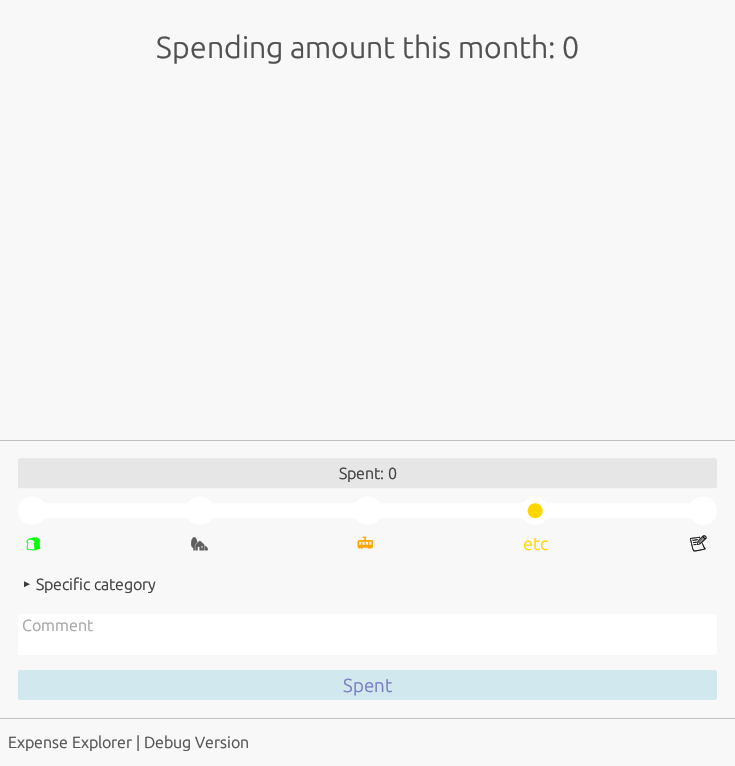
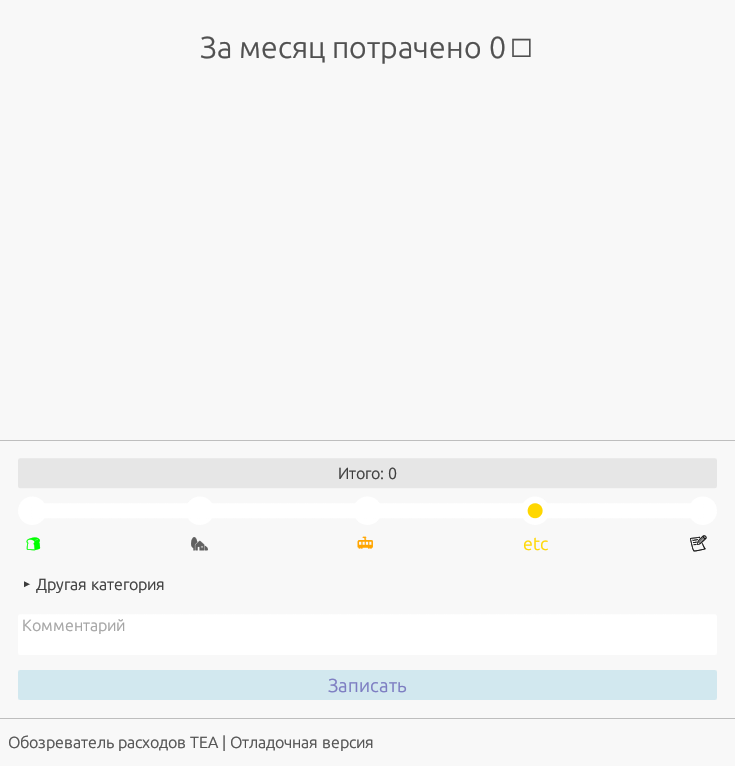
Localization start

diff --git a/src/graphics.rs b/src/graphics.rs
@@ -12,9 +12,9 @@ use crate::widgets::*;
 
 
 const CATEGORIES: [(&'static str, Color32, Option<&'static str>); 5] = [
-    ("🍞", Color32::GREEN,     Some("food")),
-    ("🏡", Color32::DARK_GRAY, Some("supplies")),
-    ("🚋", Color32::ORANGE,    Some("transport")),
+    ("🍞", Color32::GREEN,     Some("еду")),
+    ("🏡", Color32::DARK_GRAY, Some("хозтовары")),
+    ("🚋", Color32::ORANGE,    Some("транспорт")),
     ("etc", Color32::GOLD,     None),
     ("📝", Color32::BLACK,     None),
 ];
@@ -101,7 +101,7 @@ impl<U: Upstream> Trac<U> {
             .min_height(48.0)
             .show(ctx, |ui| {
                 ui.horizontal_centered(|ui| {
-                    ui.label("Expense Explorer | Debug Version");
+                    ui.label("Обозреватель расходов TEA | Отладочная версия");
                 });
             });
         
@@ -119,13 +119,13 @@ impl<U: Upstream> Trac<U> {
                     ui.add(widgets::DragValue::new(&mut form.spent)
                         .range(0..=100000)
                         .speed(drag_speed)
-                        .prefix("Spent: "));
+                        .prefix("Итого: "));
                     
                     expense_category_slider(&mut ui, &mut form.anim_category,
                         &mut form.chosen_category, &CATEGORIES);
                     
                     let write_in_cat = form.anim_category == 4.0;
-                    CollapsingHeader::new("Specific category")
+                    CollapsingHeader::new("Другая категория")
                         .open(Some(write_in_cat))
                         .show(ui, |ui| {
                             ui.text_edit_singleline(&mut form.spec_category);
@@ -133,14 +133,14 @@ impl<U: Upstream> Trac<U> {
                     
                     ui.add(widgets::TextEdit::multiline(&mut form.comment)
                         .desired_rows(2)
-                        .hint_text("Comment"));
+                        .hint_text("Комментарий"));
                     
                     if form.spent == 0 {ui.disable();}
                     if write_in_cat && form.spec_category.is_empty() {
                         ui.disable();
                     }
                     
-                    let spent = RichText::new("Spent").size(19.0)
+                    let spent = RichText::new("Записать").size(19.0)
                                          .strong().color(Color32::DARK_BLUE);
                     let spent = Button::new(spent).fill(Color32::LIGHT_BLUE);
                     if ui.add(spent).clicked() {
@@ -168,12 +168,12 @@ impl<U: Upstream> Trac<U> {
             .show(ctx, |ui| {
                 ui.vertical_centered(|ui| {
                     ui.spacing_mut().item_spacing.y += 12.0;
-                    ui.heading(format!("Spending amount this month: {latte}"));
+                    ui.heading(format!("За месяц потрачено {latte}\u{20bd}"));
                     if latc == 0 { return; }
                     
-                    ui.label(format!("in {latc} purchases ({:.2} on average);",
+                    ui.label(format!("в {latc} чеках (средний чек {:.2}\u{20bd});",
                                      (latte as f32) / (latc as f32)));
-                    if ui.button("Detailed statistics").clicked() {
+                    if ui.button("Подробная информация").clicked() {
                         cmds.push(UiCommands::Go(CurScreen::Stats));
                     }
                     ui.add_space(12.0);
@@ -192,7 +192,7 @@ impl<U: Upstream> Trac<U> {
             .min_height(48.0)
             .show(ctx, |ui| {
                 ui.horizontal_centered(|ui| {
-                    ui.label("Expense Explorer | Debug Version");
+                    ui.label("Обозреватель расходов TEA | Отладочная версия");
                 });
             });
         
@@ -204,7 +204,7 @@ impl<U: Upstream> Trac<U> {
                 ui.vertical_centered(|ui| {
                     ui.spacing_mut().item_spacing.y += 12.0;
                     
-                    if ui.button("Back").clicked() {
+                    if ui.button("Назад").clicked() {
                         cmds.push(UiCommands::Back);
                     }
                     
@@ -276,7 +276,7 @@ pub fn run_app(db: impl Upstream) -> eframe::Result {
     
     let native_options = eframe::NativeOptions {
         viewport: egui::ViewportBuilder::default()
-            .with_title("Expense Explorer")
+            .with_title("Обозреватель расходов")
             .with_inner_size([700.0, 600.0])
             .with_min_inner_size([600.0, 540.0])
             .with_icon(

diff --git a/src/widgets/mod.rs b/src/widgets/mod.rs
@@ -9,15 +9,16 @@ pub use pie::pie_chart_with_legend;
 /// loaded yet) on given ui, using single widget.
 pub fn show_spending_mayload(ui: &mut egui::Ui, ml: crate::db_slice::MayLoad<'_>) {
     use time::format_description::well_known::Rfc3339;
+    use crate::crosstyping::UNCLASSIFIED;
     use crate::db_slice::MayLoad::*;
     
     match ml {
         Confirmed(e) => ui.monospace(e.to_string()),
         NotLoaded    => ui.monospace("------------------------------"),
         Provisional{data, temp_time} =>
-            ui.monospace(format!("[LOCAL!] - {} - {}P on {}",
+            ui.monospace(format!("[не синхронизировано!] - {} - {}\u{20bd} на {}",
                 temp_time.format(&Rfc3339).unwrap(),
-                data.amount, data.group.as_deref().unwrap_or("something"))),
+                data.amount, data.group.as_deref().unwrap_or(UNCLASSIFIED))),
     };
 }
 

diff --git a/src/crosstyping.rs b/src/crosstyping.rs
@@ -7,7 +7,7 @@ use uuid::Uuid;
 use std::collections::BTreeMap;
 
 
-pub const UNCLASSIFIED: &str = "unclassified";
+pub const UNCLASSIFIED: &str = "покупки";
 pub const MONTH_LIKE: Duration = Duration::days(30);
 
 //----------------------------------------------------------------------------//
@@ -39,11 +39,11 @@ impl std::fmt::Display for Expense {
         if self.client.revoked {
             return Err(std::fmt::Error);
         }
-        write!(f, "{:08X} - {} - {}P on {}",
+        write!(f, "{:08X} - {} - {}\u{20bd} на {}",
             self.server.uid.as_fields().0,
             self.server.time.format(&Rfc3339).unwrap(),
             self.client.amount,
-            self.client.group.as_deref().unwrap_or("something")
+            self.client.group.as_deref().unwrap_or(UNCLASSIFIED)
         )
     }
 }
